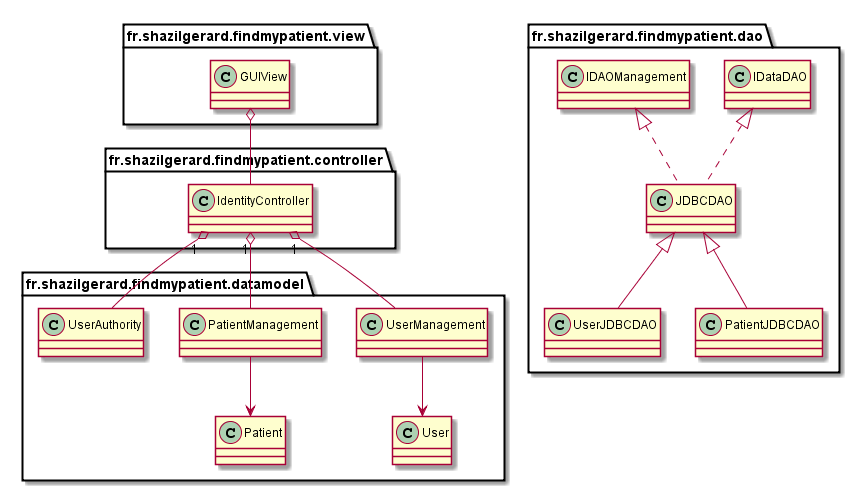
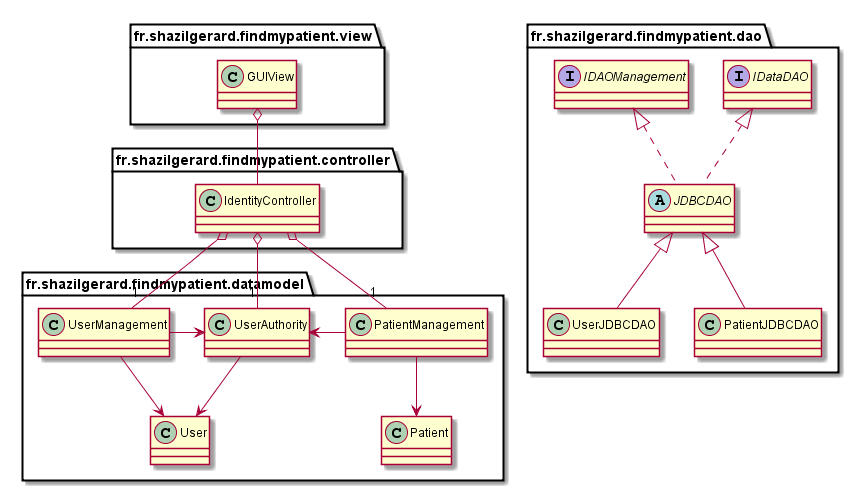
Testing Authority class

diff --git a/SourceCode/test/fr/shazilgerard/findmypatient/testcases/ProtoTypeTesting.java b/SourceCode/test/fr/shazilgerard/findmypatient/testcases/ProtoTypeTesting.java
@@ -37,44 +37,8 @@ public class ProtoTypeTesting {
 		testDAOSearch().run();
 		testDAOConnectionWithReadAll().run();
 		testControllerAndDAO().run();
-		testUserLogin().run();
+		testUserAuthority().run();
 	}
-	
-	
-	/**
-	 * Test if the Login of a user works
-	 * @throws Exception 
-	 */
-	private TestWrapper testUserLogin(){
-		TestWrapper test = new TestWrapper() {	
-			
-			@Override
-			public void test() throws Exception {
-				System.out.println("--Test User login --");
-				
-				// Create a DAO
-				UserJDBCDAO userDAO = new UserJDBCDAO();
-				userDAO.setDatabaseConnection("jdbc:derby://localhost:1527/PatientsDB;create=true", "root", "root");
-				userDAO.connect();
-				
-				// Test Authority functionality
-				UserAuthority userAuthority = new UserAuthority(userDAO);
-				try {
-					userAuthority.login("admin", "admin");
-					System.out.println(String.format("Logged in as: %s", userAuthority.getUserName()) );
-					userAuthority.login("unknown use 2134", "");
-					
-				} catch (NoAuthorityException e) {
-					System.out.println("No authority to enter the system");
-				}
-				
-				// Disconnect
-				userDAO.disconnect();
-			}
-		};
-		return test;
-	}
-
 	/**
 	 * Test if DAO create works
 	 */
@@ -148,9 +112,72 @@ public class ProtoTypeTesting {
 		};
 		return test;
 	}
-
+	
+	
 	/**
-	 * Test if the authorization works
+	 * Test if the Login of a user works
+	 * @throws Exception 
+	 */
+	private TestWrapper testUserAuthority(){
+		TestWrapper test = new TestWrapper() {	
+			
+			@Override
+			public void test() throws Exception {
+				System.out.println("--Test User authority --");
+				
+				// Create a user DAO
+				UserJDBCDAO userDAO = new UserJDBCDAO();
+				userDAO.setDatabaseConnection("jdbc:derby://localhost:1527/PatientsDB;create=true", "root", "root");
+				userDAO.connect();
+				
+				// Test Authority functionality
+				UserAuthority userAuthority = new UserAuthority(userDAO);
+				
+				// Log in as admin and read and get rights
+				userAuthority.login("admin", "admin");
+				System.out.println(String.format("Logged in as: %s, Rights: %s", 
+						userAuthority.getUserName(),
+						userAuthority.getUserRights()) );
+				
+				// Test logout
+				userAuthority.logout();
+				if(!userAuthority.getUserName().equals(""))
+					throw new Exception("Logout not working");
+				
+				// Test without password
+				{
+					boolean userRejected = false;
+					try {
+						userAuthority.login("admin", "");
+					} catch (NoAuthorityException e) {
+						userRejected = true;
+					}
+					if(!userRejected)
+						throw new Exception("Password check not working");
+				}
+				
+				// Test unknown user, should be rejected
+				{
+					boolean userRejected = false;
+					try {
+						userAuthority.login("348942njasdh", "");
+					} catch (NoAuthorityException e) {
+						userRejected = true;
+					}
+					if(!userRejected)
+						throw new Exception("Rejecting unkown users not working");
+				}
+
+				// Disconnect
+				userDAO.disconnect();
+			}
+		};
+		return test;
+	}
+
+	
+	/**
+	 * Test if the authorization integrated with controller works
 	 * @return
 	 */
 	private TestWrapper testControllerAndDAO()

diff --git a/SourceCode/src/fr/shazilgerard/findmypatient/datamodel/UserAuthority.java b/SourceCode/src/fr/shazilgerard/findmypatient/datamodel/UserAuthority.java
@@ -54,23 +54,37 @@ public class UserAuthority {
 		List<User> foundUsers = this.userDAO.search(searchUser, userMatcher);
 		if(foundUsers.size() > 0)
 		{
-			this.currentUser = foundUsers.get(0);
-			return;
+			User foundUser = foundUsers.get(0);
+			
+			// Check the password matches
+			if(foundUser.getPassword().equals(password)){
+				this.currentUser = foundUser;
+				return;
+			}
 		}
-
+		
+		// User with matching password not founds
 		throw new NoAuthorityException();
 	}
 	
 	/**
+	 * Current user is logged out
+	 */
+	public void logout()
+	{
+		this.currentUser = null;
+	}
+	
+	/**
 	 * Get the username of the current user
-	 * @return The current user
+	 * @return The current user, or empty of no user logged in
 	 */
 	public String getUserName()
 	{
 		if(this.currentUser != null)
 			return this.currentUser.getName();
 		else
-			return "No user logged in";
+			return "";
 	}
 	
 	/**
